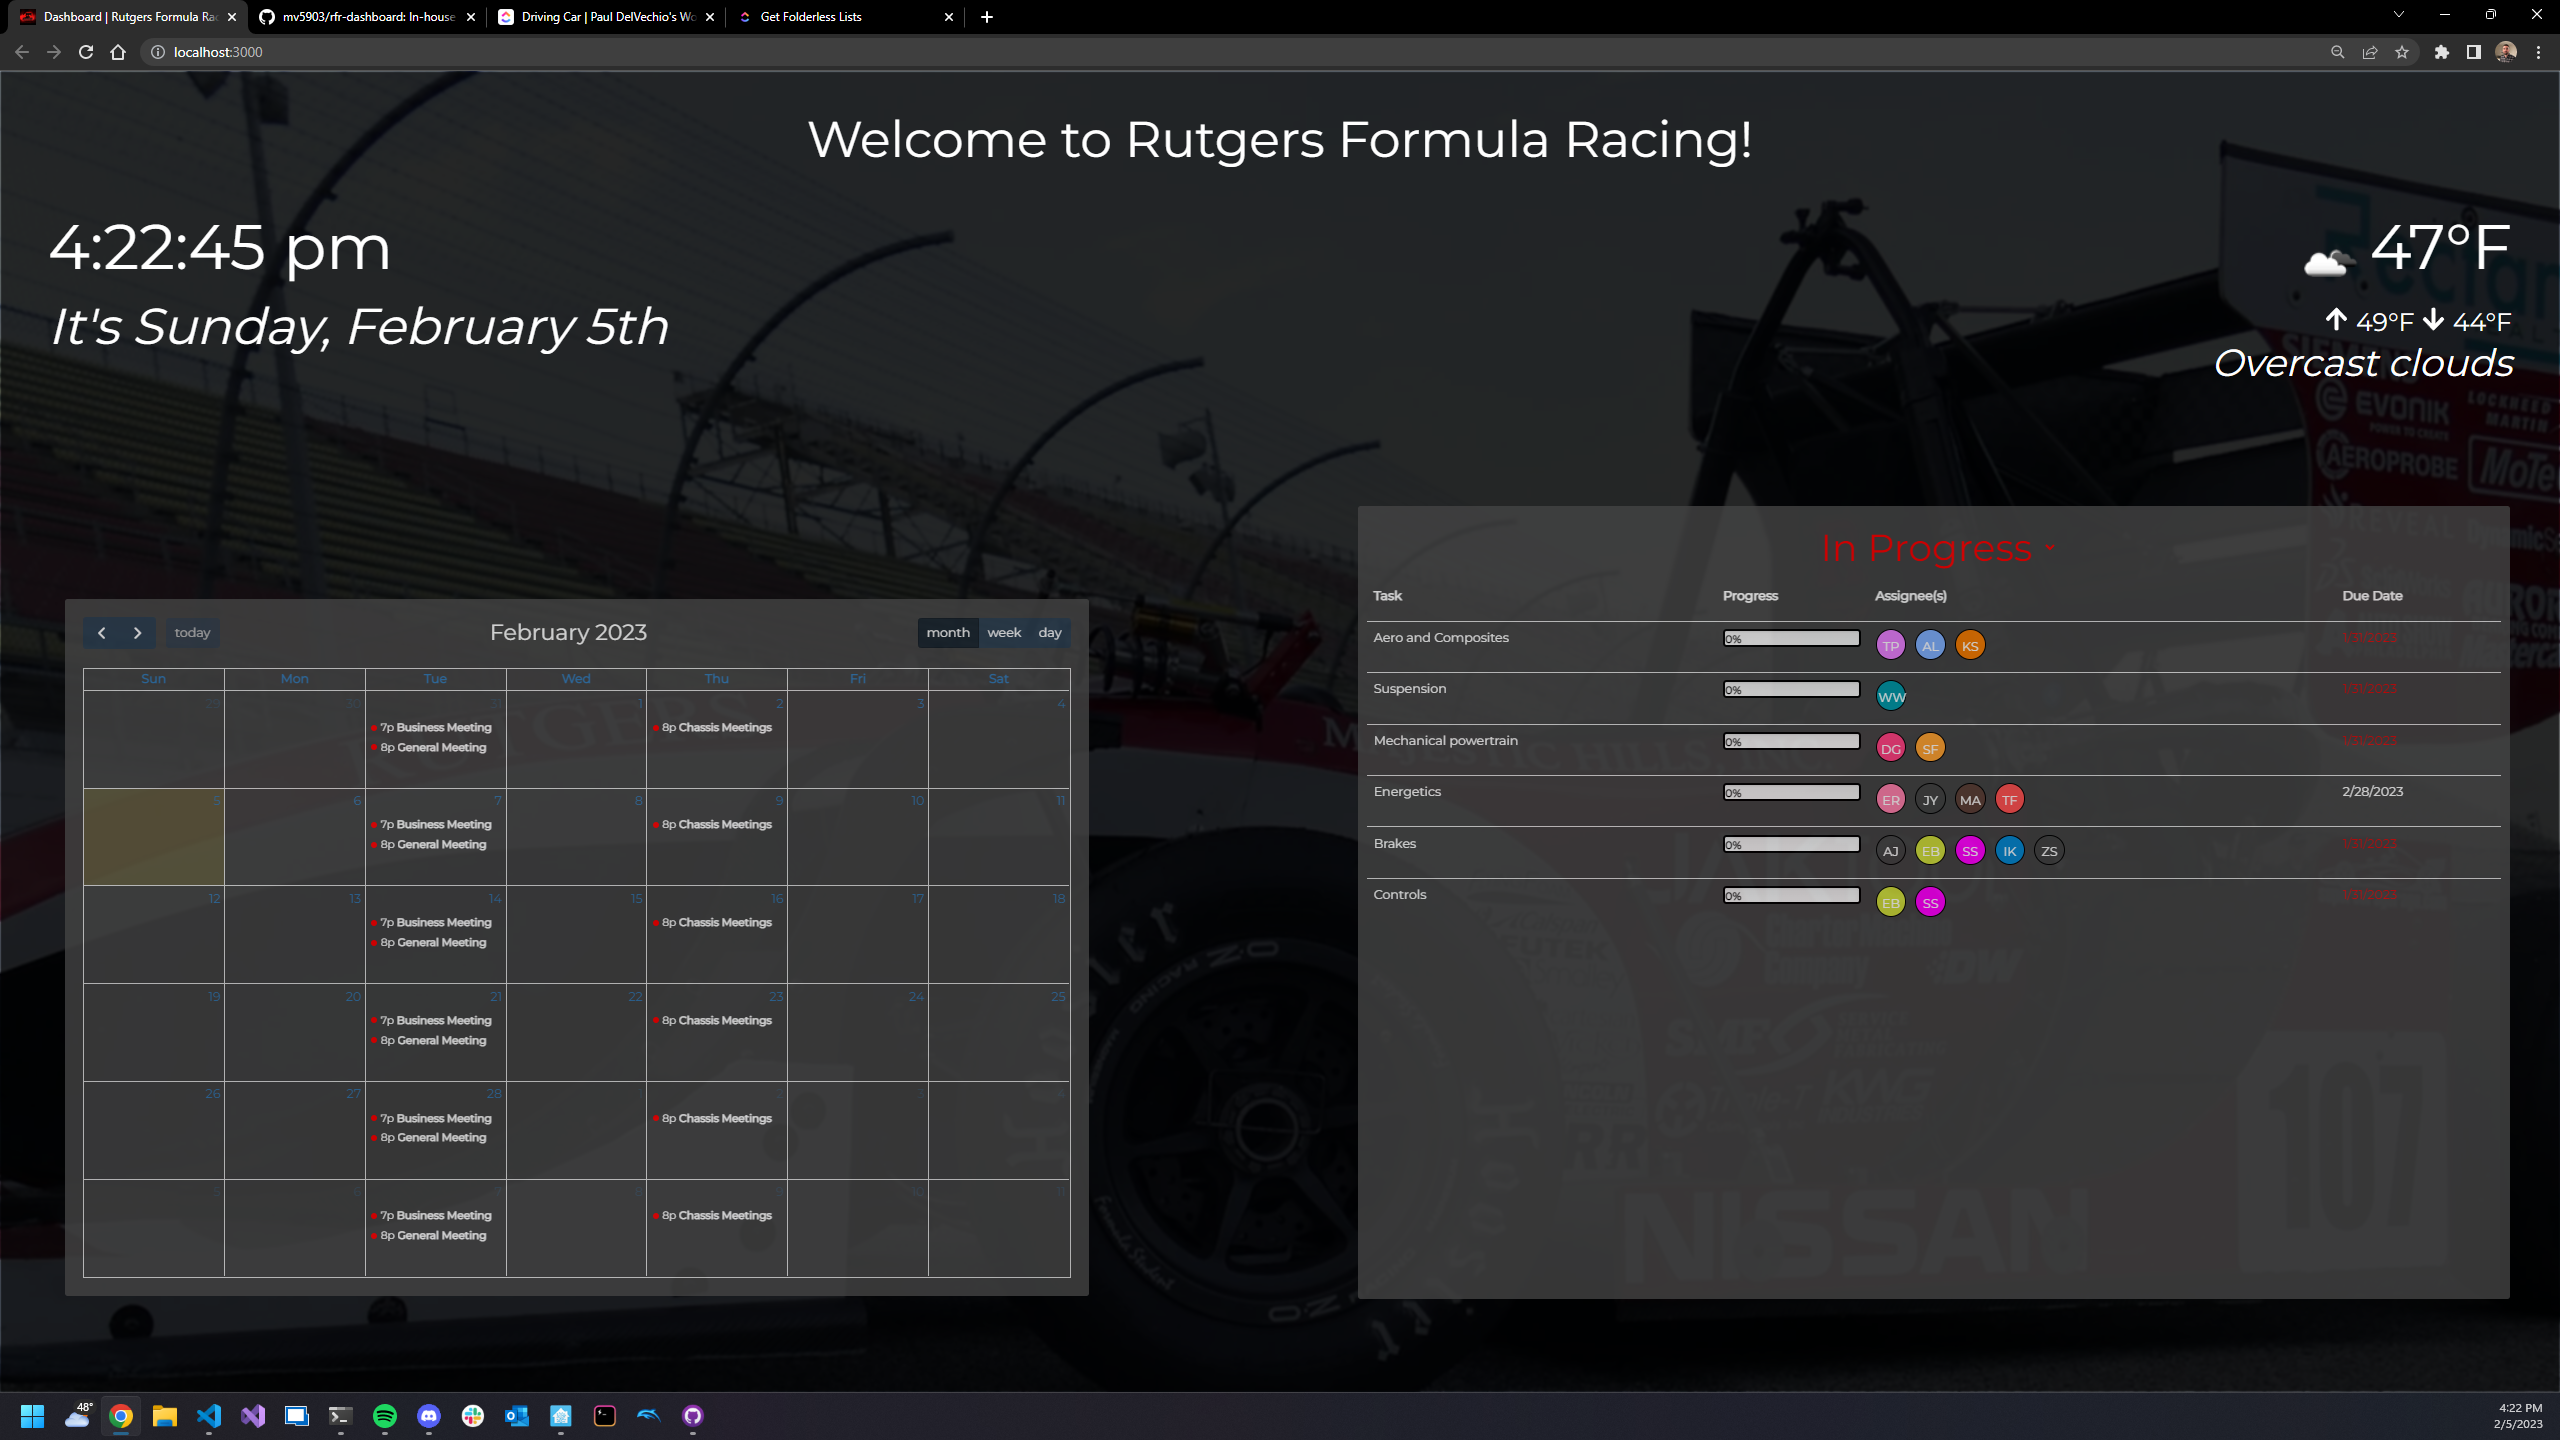
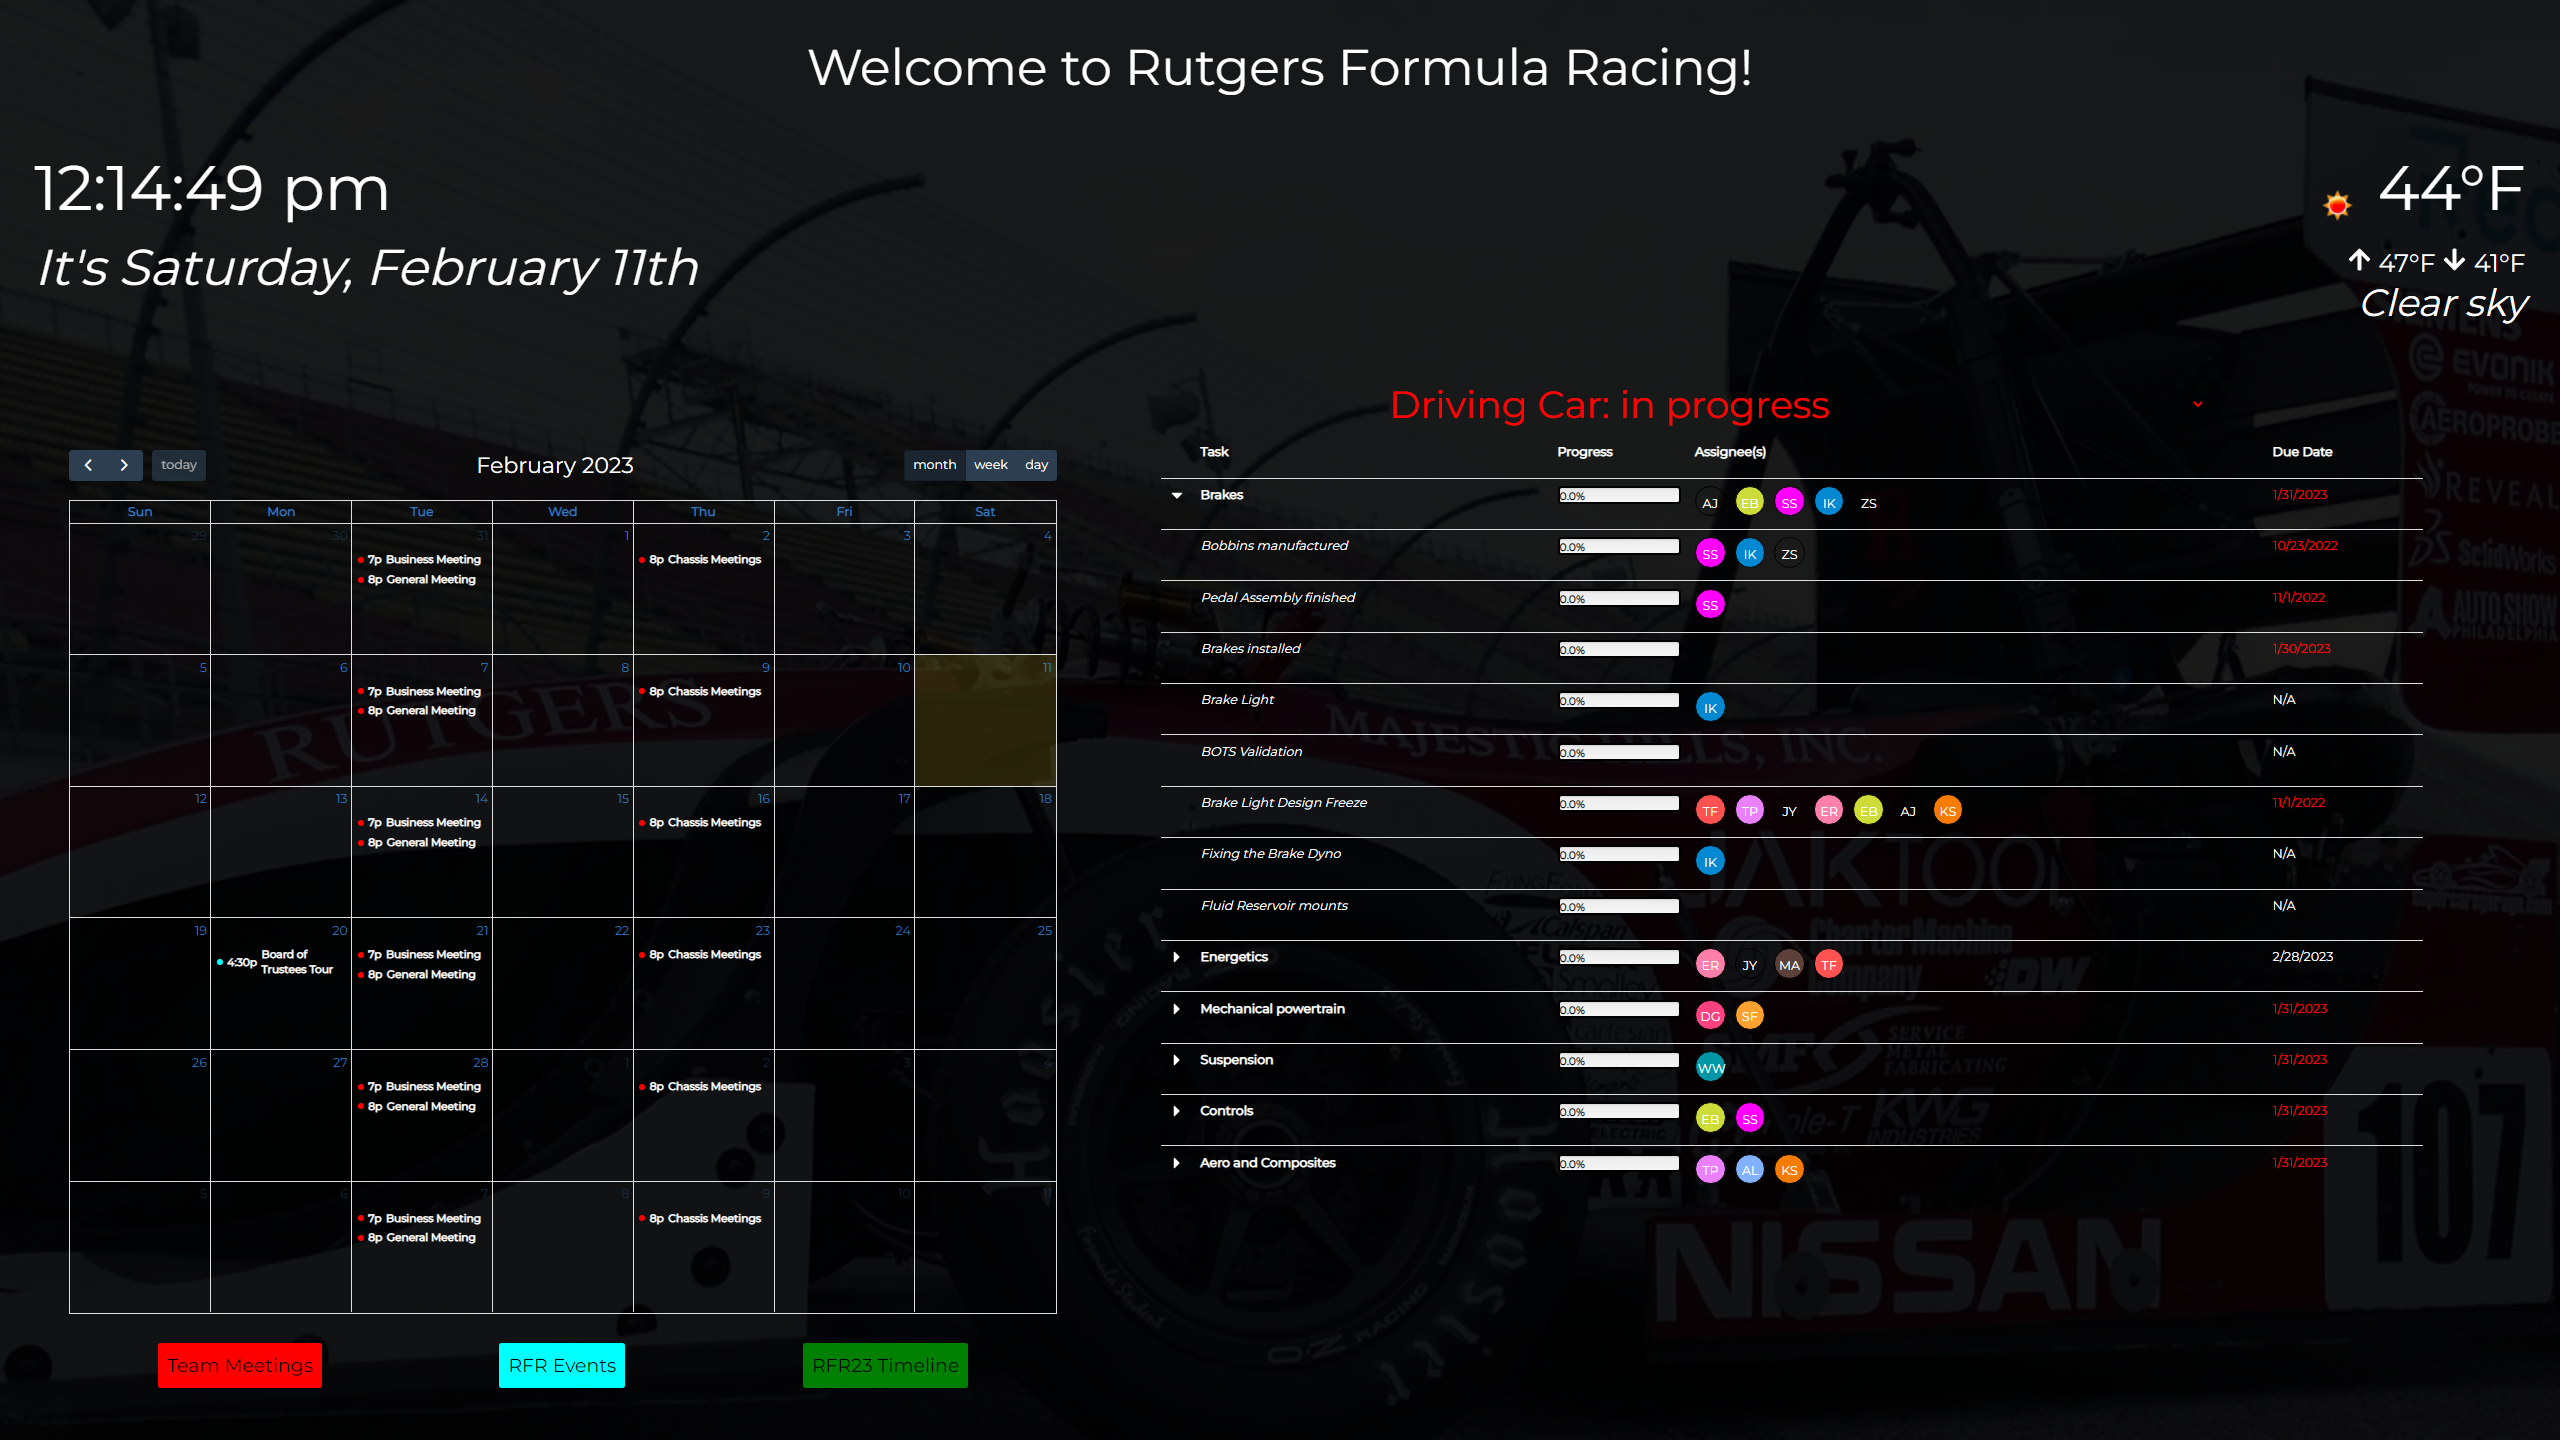
Style changes and start user preferences

diff --git a/rfr-dashboard/src/App.css b/rfr-dashboard/src/App.css
@@ -1,9 +1,15 @@
 @import url('https://fonts.googleapis.com/css2?family=Montserrat&display=swap');
 
+:root {
+  --bg-color: 'black';
+  --element-opacity: '1';
+}
+
 body {
   margin: 0;
   -webkit-font-smoothing: antialiased;
   -moz-osx-font-smoothing: grayscale;
+  overflow: hidden;
 }
 
 .App {
@@ -58,23 +64,25 @@ body {
   position: relative;
   text-align: center;
   overflow: hidden;
+  padding: 0;
 }
 
 .container::before {
-  content: "";
   display: block;
-  -webkit-filter: blur(1px) brightness(0.15);
-  -moz-filter: blur(1px) brightness(0.15);
-  -ms-filter: blur(1px) brightness(0.15);
-  -o-filter: blur(1px) brightness(0.15);
-  filter: blur(1px) brightness(0.15);
+  -webkit-filter: brightness(0.1);
+  -moz-filter: brightness(0.1);
+  -ms-filter: brightness(0.1);
+  -o-filter: brightness(0.1);
+  filter: brightness(0.1);
   position: absolute;
   left: 0;
   top: 0;
   right: 0;
   bottom: 0;
   background: inherit;
-  z-index: 0;
+  z-index: 1;
+  width: 100vw;
+  height: 100vh;
 }
 
 .content {
@@ -103,11 +111,11 @@ body {
 
 .calendar {
   position: absolute;
-  top: 40vh;
+  top: 30vh;
   left: 2vw;
   width: 40vw;
-  background-color: #444;
-  opacity: .8;
+  background-color: var(--background-color);
+  opacity: var(--element-opacity);
   border-radius: 3px;
   padding: 20px;
 }
@@ -145,14 +153,18 @@ body {
   color: white;
 }
 
+.fc-event {
+  font-weight: bolder;
+}
+
 .clickup {
   position: absolute;
-  width: 45vw;
+  width: 50vw;
   height: 70vh;
-  background-color: #444;
-  margin-left: 52.5vw;
-  margin-top: 20vh;
-  opacity: .8;
+  background-color: var(--background-color);
+  margin-left: 45vw;
+  margin-top: 18vh;
+  opacity: var(--element-opacity);
   color: white;
   text-align: left;
   padding: 10px;
@@ -174,7 +186,7 @@ body {
 .form-select {
   padding: 10px;
   font-size: 3em;
-  background-color: #444;
+  background-color: var(--background-color);
   border: none;
 }
 

diff --git a/rfr-dashboard/src/util/LocalStoragePreferences.js b/rfr-dashboard/src/util/LocalStoragePreferences.js
@@ -1,0 +1,54 @@
+export class LocalStoragePreferences {
+    preferences;
+
+    constructor() {
+        // Attempt to laod preferences from local storage. If not found, create a new object.
+        if (localStorage.getItem('preferences')) {
+            this.preferences = JSON.parse(localStorage.getItem('preferences'));
+        } else {
+            this.preferences = defaultPreferences();
+            localStorage.setItem('preferences', this.preferences);
+
+        }
+    }
+
+    defaultPreferences() {
+        return {
+            "unitsMetric": false,
+            "showSeconds": true,
+            "showDate": true,
+            "showHighLowTemp": true,
+            "showProgressBars": true,
+            "defaultList": {
+                "list": "Driving Car",
+                "status": "in progress"
+            }
+        }
+    }
+
+    updatePreference(key, value) {
+        // Check if key exists in preferences object
+        if (!this.preferences.hasOwnProperty(key)) {
+            console.error(`Key ${key} does not exist in preferences object.`);
+            return;
+        }
+        // Check that value is of the same type as the existing value
+        if (typeof value !== typeof this.preferences[key]) {
+            console.error(`Value ${value} is not of the same type as existing value ${this.preferences[key]}.`);
+            return;
+        }
+        // Update the value
+        this.preferences[key] = value;
+        // Save the preferences to local storage
+        localStorage.setItem('preferences', this.preferences);
+    }
+
+    getPreference(key) {
+        // Check if key exists in preferences object
+        if (!this.preferences.hasOwnProperty(key)) {
+            console.error(`Key ${key} does not exist in preferences object.`);
+            return;
+        }
+        return this.preferences[key];
+    }
+}

diff --git a/rfr-dashboard/src/components/Settings.js b/rfr-dashboard/src/components/Settings.js
@@ -1,0 +1,18 @@
+import { LocalStoragePreferences } from "../util/LocalStoragePreferences";
+
+export default function Settings() {
+    let preferences = new LocalStoragePreferences();
+    return (
+        <div className="settings">
+            <h1>Settings</h1>
+            {preferences.map((preference, index) => {
+                return (
+                    <div key={index}> 
+                        <h2>{preference.name}</h2>
+                        <input type="text" value={preference.value} onChange={preference.onChange} />
+                    </div>
+                );
+            })}
+        </div>
+    );
+}

diff --git a/rfr-dashboard/src/components/ClickupTask.js b/rfr-dashboard/src/components/ClickupTask.js
@@ -31,7 +31,7 @@ export default function ClickupTask({ task, tasks, showSubtasks, showSubtask, is
                     :
                     <td><p><strong><a href={task.url} target="_blank" rel="noreferrer" style={{color: 'white'}}>{task.name}</a></strong></p></td>
                 }
-                <td><ProgressBar striped varient="success" now={progress} label={`${progress}%`}/></td>
+                <td><ProgressBar striped varient="success" now={progress} label={`${progress}%`} /></td>
                 <td>
                     <div className="assignees">
                         {asignees.map((asignee, index) => {

diff --git a/rfr-dashboard/src/components/Calendar.js b/rfr-dashboard/src/components/Calendar.js
@@ -33,7 +33,7 @@ export default class Calendar extends React.Component {
                     views={['dayGridMonth', 'dayGridWeek', 'dayGridDay']}
                     plugins={[ dayGridPlugin, googleCalendarPlugin ]} 
                     headerToolbar={{ left: 'prev,next today', center: 'title', right: 'dayGridMonth,dayGridWeek,dayGridDay' }}
-                    height="50vh" 
+                    height="60vh" 
                     ref={this.calendarRef}
                     themeSystem='bootstrap5'
                     eventColor='#ff0000'

diff --git a/rfr-dashboard/src/components/Weather.js b/rfr-dashboard/src/components/Weather.js
@@ -5,7 +5,7 @@ export default function Weather() {
     const zip = '08901';
     const apikey = '214164ec971a2392bc3bd503b9174fff';
 
-    const [weather, setWeather] = useState({ temp: 'Weather is Loading...', desc: 'Please wait a few seconds...', icon: '' });
+    const [weather, setWeather] = useState({ temp: 'Fetching the current weather...', desc: 'Please wait a few seconds...', icon: '' });
 
     useEffect(() => {
         setInterval(() => {

diff --git a/rfr-dashboard/src/components/Clickup.js b/rfr-dashboard/src/components/Clickup.js
@@ -68,7 +68,7 @@ export default function Clickup() {
                     </select>
                 </div>
                 :
-                <h3 className="clickup-loading">Loading...</h3>
+                <h3 className="clickup-loading">Loading Clickup tasks, please wait a few seconds...</h3>
             }
             <table className="table">
                 <thead>
